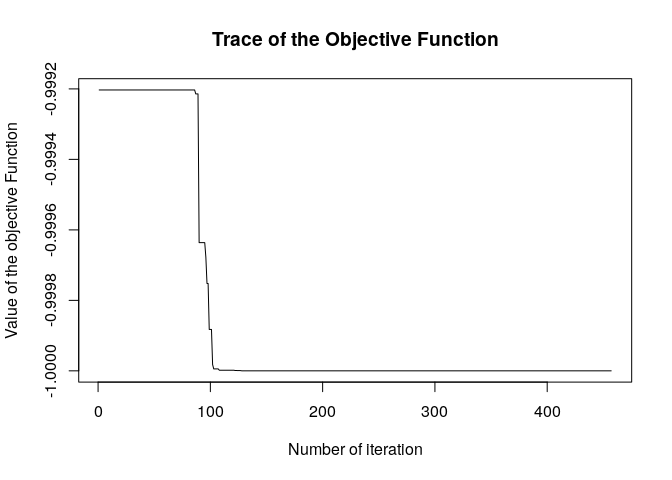
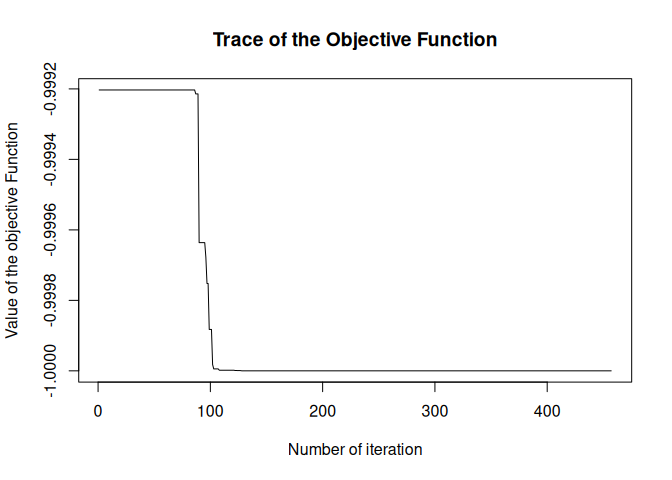
Improving README (#7)
* Improving README

* Updating readme

* [skip ci] align figure

* [skip ci] Fixing alignment

diff --git a/CODE_OF_CONDUCT.md b/CODE_OF_CONDUCT.md
@@ -1,0 +1,126 @@
+# Contributor Covenant Code of Conduct
+
+## Our Pledge
+
+We as members, contributors, and leaders pledge to make participation in our
+community a harassment-free experience for everyone, regardless of age, body
+size, visible or invisible disability, ethnicity, sex characteristics, gender
+identity and expression, level of experience, education, socio-economic status,
+nationality, personal appearance, race, caste, color, religion, or sexual
+identity and orientation.
+
+We pledge to act and interact in ways that contribute to an open, welcoming,
+diverse, inclusive, and healthy community.
+
+## Our Standards
+
+Examples of behavior that contributes to a positive environment for our
+community include:
+
+* Demonstrating empathy and kindness toward other people
+* Being respectful of differing opinions, viewpoints, and experiences
+* Giving and gracefully accepting constructive feedback
+* Accepting responsibility and apologizing to those affected by our mistakes,
+  and learning from the experience
+* Focusing on what is best not just for us as individuals, but for the overall
+  community
+
+Examples of unacceptable behavior include:
+
+* The use of sexualized language or imagery, and sexual attention or advances of
+  any kind
+* Trolling, insulting or derogatory comments, and personal or political attacks
+* Public or private harassment
+* Publishing others' private information, such as a physical or email address,
+  without their explicit permission
+* Other conduct which could reasonably be considered inappropriate in a
+  professional setting
+
+## Enforcement Responsibilities
+
+Community leaders are responsible for clarifying and enforcing our standards of
+acceptable behavior and will take appropriate and fair corrective action in
+response to any behavior that they deem inappropriate, threatening, offensive,
+or harmful.
+
+Community leaders have the right and responsibility to remove, edit, or reject
+comments, commits, code, wiki edits, issues, and other contributions that are
+not aligned to this Code of Conduct, and will communicate reasons for moderation
+decisions when appropriate.
+
+## Scope
+
+This Code of Conduct applies within all community spaces, and also applies when
+an individual is officially representing the community in public spaces.
+Examples of representing our community include using an official e-mail address,
+posting via an official social media account, or acting as an appointed
+representative at an online or offline event.
+
+## Enforcement
+
+Instances of abusive, harassing, or otherwise unacceptable behavior may be
+reported to the community leaders responsible for enforcement at g.vegayon@gmail.com. 
+All complaints will be reviewed and investigated promptly and fairly.
+
+All community leaders are obligated to respect the privacy and security of the
+reporter of any incident.
+
+## Enforcement Guidelines
+
+Community leaders will follow these Community Impact Guidelines in determining
+the consequences for any action they deem in violation of this Code of Conduct:
+
+### 1. Correction
+
+**Community Impact**: Use of inappropriate language or other behavior deemed
+unprofessional or unwelcome in the community.
+
+**Consequence**: A private, written warning from community leaders, providing
+clarity around the nature of the violation and an explanation of why the
+behavior was inappropriate. A public apology may be requested.
+
+### 2. Warning
+
+**Community Impact**: A violation through a single incident or series of
+actions.
+
+**Consequence**: A warning with consequences for continued behavior. No
+interaction with the people involved, including unsolicited interaction with
+those enforcing the Code of Conduct, for a specified period of time. This
+includes avoiding interactions in community spaces as well as external channels
+like social media. Violating these terms may lead to a temporary or permanent
+ban.
+
+### 3. Temporary Ban
+
+**Community Impact**: A serious violation of community standards, including
+sustained inappropriate behavior.
+
+**Consequence**: A temporary ban from any sort of interaction or public
+communication with the community for a specified period of time. No public or
+private interaction with the people involved, including unsolicited interaction
+with those enforcing the Code of Conduct, is allowed during this period.
+Violating these terms may lead to a permanent ban.
+
+### 4. Permanent Ban
+
+**Community Impact**: Demonstrating a pattern of violation of community
+standards, including sustained inappropriate behavior, harassment of an
+individual, or aggression toward or disparagement of classes of individuals.
+
+**Consequence**: A permanent ban from any sort of public interaction within the
+community.
+
+## Attribution
+
+This Code of Conduct is adapted from the [Contributor Covenant][homepage],
+version 2.1, available at
+<https://www.contributor-covenant.org/version/2/1/code_of_conduct.html>.
+
+Community Impact Guidelines were inspired by
+[Mozilla's code of conduct enforcement ladder][https://github.com/mozilla/inclusion].
+
+For answers to common questions about this code of conduct, see the FAQ at
+<https://www.contributor-covenant.org/faq>. Translations are available at <https://www.contributor-covenant.org/translations>.
+
+[homepage]: https://www.contributor-covenant.org

diff --git a/README.md b/README.md
@@ -1,28 +1,27 @@
 
-[![CRAN
-status](https://www.r-pkg.org/badges/version/ABCoptim)](https://cran.r-project.org/package=ABCoptim)
+
+[![R-CMD-check-final](https://github.com/gvegayon/ABCoptim/actions/workflows/r.yml/badge.svg)](https://github.com/gvegayon/ABCoptim/actions/workflows/r.yml)
+[![pkgdown](https://github.com/gvegayon/ABCoptim/actions/workflows/pkgdown.yaml/badge.svg)](https://github.com/gvegayon/ABCoptim/actions/workflows/pkgdown.yaml)
+[![CRAN status](https://www.r-pkg.org/badges/version/ABCoptim)](https://cran.r-project.org/package=ABCoptim)
 [![Downloads](https://cranlogs.r-pkg.org/badges/ABCoptim)](http://cran.rstudio.com/package=ABCoptim)
-[![](https://cranlogs.r-pkg.org/badges/grand-total/ABCoptim)](http://cran.rstudio.com/package=ABCoptim)
-[![AppVeyor Build
-Status](https://ci.appveyor.com/api/projects/status/github/gvegayon/ABCoptim?branch=master&svg=true)](https://ci.appveyor.com/project/gvegayon/ABCoptim)
-[![Travis-CI Build
-Status](https://travis-ci.org/gvegayon/ABCoptim.svg?branch=master)](https://travis-ci.org/gvegayon/ABCoptim)
+[![](https://cranlogs.r-pkg.org/badges/grand-total/ABCoptim)](http://cran.rstudio.com/package=ABCoptim) 
 [![codecov](https://codecov.io/gh/gvegayon/ABCoptim/branch/master/graph/badge.svg)](https://codecov.io/gh/gvegayon/ABCoptim)
 [![DOI](https://zenodo.org/badge/13732591.svg)](https://zenodo.org/badge/latestdoi/13732591)
-[![lifecycle](https://img.shields.io/badge/lifecycle-maturing-blue.svg)](https://www.tidyverse.org/lifecycle/#maturing)
 [![Sponsor](https://img.shields.io/badge/-Sponsor-fafbfc?logo=GitHub%20Sponsors)](https://github.com/sponsors/gvegayon)
 
-# ABCoptim: An implementation of the Artificial Bee Colony (ABC) Algorithm <img src="man/figures/logo.png" align="right" height="300px"/>
-
+# ABCoptim: Implementation of Artificial Bee Colony (ABC) Optimization <img src="man/figures/logo.png" align="right" height="150" />
 
 <!-- how-to-cite -->
-> [!NOTE]
-> **How to cite ABCoptim.** If you use **ABCoptim** in published work, please cite it:
+
+> \[!NOTE\] **How to cite ABCoptim.** If you use **ABCoptim** in
+> published work, please cite it:
 >
-> Vega Yon G, Muñoz E. *ABCoptim: Implementation of Artificial Bee Colony (ABC) Optimization*. doi:[10.32614/CRAN.package.ABCoptim](https://doi.org/10.32614/CRAN.package.ABCoptim)
+> Vega Yon G, Muñoz E. *ABCoptim: Implementation of Artificial Bee
+> Colony (ABC) Optimization*.
+> doi:[10.32614/CRAN.package.ABCoptim](https://doi.org/10.32614/CRAN.package.ABCoptim)
 >
 > Run `citation("ABCoptim")` in R for the BibTeX entry.
-<!-- how-to-cite -->
+> <!-- how-to-cite -->
 
 This is an implementation of Karaboga (2005) ABC optimization algorithm.
 It was developed upon the basic version programmed in *C* and
@@ -35,7 +34,11 @@ Any evident (precision) error should be blamed to the package author
 
 ``` r
 library(ABCoptim)
+```
 
+    Using ABCoptim in your research? Please cite it: citation("ABCoptim")
+
+``` r
 # Function to optimize. Min at (pi,pi)
 fun <- function(x) {
   -cos(x[1])*cos(x[2])*exp(-((x[1] - pi)^2 + (x[2] - pi)^2))
@@ -50,33 +53,40 @@ ans <- abc_optim(rep(10,2), fun, lb=-20, ub=20, criter=200)
 ans
 ```
 
-    ## 
-    ##  An object of class -abc_answer- (Artificial Bee Colony Optim.):
-    ##  par:
-    ##     x[1]:  3.141593
-    ##     x[2]:  3.141593
-    ## 
-    ##  value:
-    ##           -1.000000
-    ## 
-    ##  counts:
-    ##            457
+
+     An object of class -abc_answer- (Artificial Bee Colony Optim.):
+     par:
+        x[1]:  3.141593
+        x[2]:  3.141593
+
+     value:
+              -1.000000
+
+     counts:
+               457
 
 ``` r
 plot(ans)
 ```
 
-![](man/figures/example1-1.png)<!-- -->
+![](man/figures/example1-1.png)
 
 # References
 
 D. Karaboga, *An Idea based on Honey Bee Swarm for Numerical
 Optimization*, tech. report TR06,Erciyes University, Engineering
 Faculty, Computer Engineering Department, 2005
-<http://mf.erciyes.edu.tr/abc/pub/tr06_2005.pdf>
+http://mf.erciyes.edu.tr/abc/pub/tr06_2005.pdf
 
 Artificial Bee Colony (ABC) Algorithm (website)
-<http://mf.erciyes.edu.tr/abc/index.htm>
+http://mf.erciyes.edu.tr/abc/index.htm
 
 Basic version of the algorithm implemented in ‘C’ (ABC’s official
-website) <http://mf.erciyes.edu.tr/abc/form.aspx>
+website) http://mf.erciyes.edu.tr/abc/form.aspx
+
+## Code of Conduct
+
+Please note that the ABCoptim project is released with a [Contributor
+Code of
+Conduct](https://contributor-covenant.org/version/2/1/CODE_OF_CONDUCT.html).
+By contributing to this project, you agree to abide by its terms.
